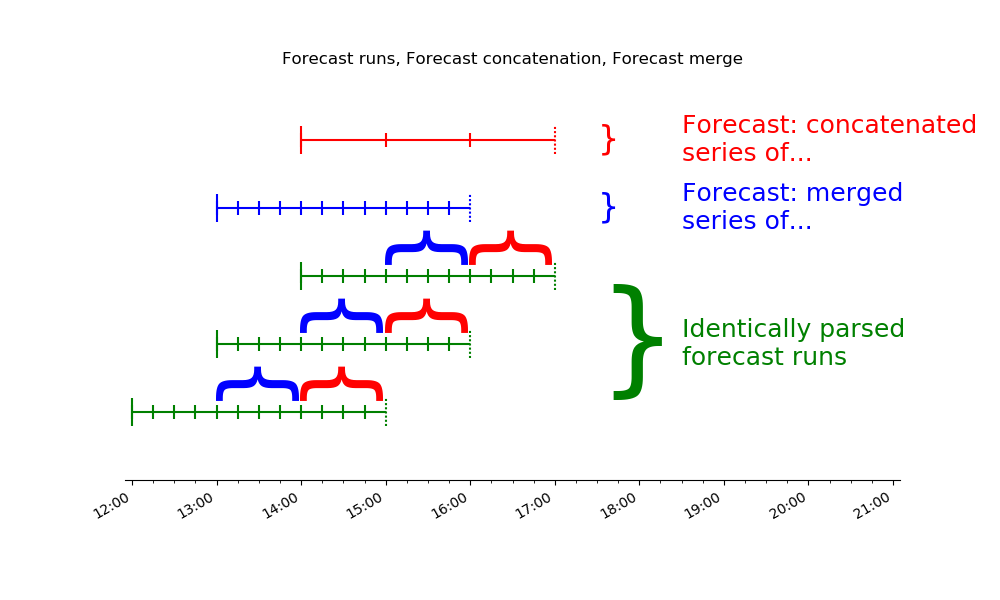
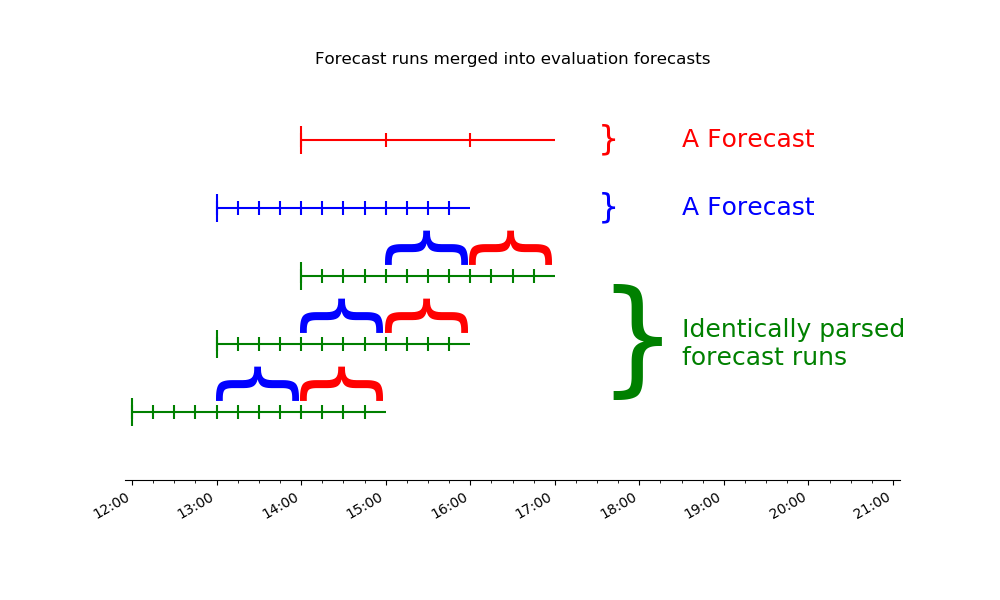
clean up

Changed region(s): [[0.682, 0.18, 0.992, 0.27], [0.682, 0.3, 0.899, 0.39], [0.279, 0.09, 0.744, 0.12]]

diff --git a/timeline.py b/timeline.py
@@ -60,6 +60,8 @@ class Forecast:
         Inclusion/exclusion determined by label.
     end: pandas.Timestamp
         Equal to start + duration. Inclusion/exclusion determined by label.
+    issue_time: pandas.Timestamp
+        Equal to start - lead_time_to_start
     label: str
     kind: str
     units: str
@@ -68,10 +70,10 @@ class Forecast:
                  intervals_per_submission, issue_frequency, value_type,
                  start, kind=None, label='left', units=''):
 
-        self.lead_time_to_start = lead_time_to_start
-        self.interval_duration = interval_duration
+        self.lead_time_to_start = pd.Timedelta(lead_time_to_start)
+        self.interval_duration = pd.Timedelta(interval_duration)
         self.intervals_per_submission = intervals_per_submission
-        self.issue_frequency = issue_frequency
+        self.issue_frequency = pd.Timedelta(issue_frequency)
         self.duration = \
             pd.Timedelta(interval_duration) * intervals_per_submission
         self.value_type = value_type
@@ -79,64 +81,39 @@ class Forecast:
         # For left-labeling, forecast is exclusive of end.
         # end is the first instant that is not part of the Forecast.
         self.end = self.start + self.duration
+        self.issue_time = self.start - self.lead_time_to_start
         self.kind = kind
         # determined by corresponding observations, provided here for
         # convenience
         self.units = units
 
-tz = 'UTC'
-start = pd.Timestamp('20180101 1200')
-end = pd.Timestamp('20180101 2100')
-freq = '5min'
-dates = pd.DatetimeIndex(start=start, end=end, freq=freq)
 
-# levels = np.array([-5, 5, -3, 3, -1, 1])
-fig, ax = plt.subplots(figsize=(10, 6))
+def draw_forecast_timeline(ax, y, forecast, start_tick_y_length=0.2,
+                           show_lead_time=False, show_last_tick=False,
+                           **kwargs):
+    if show_lead_time:
+        ax.hlines(y, xmin=forecast.issue_time, xmax=forecast.start,
+                linestyles=(0, (1, 1)), **kwargs)
+        ax.vlines(forecast.issue_time, y - start_tick_y_length,
+                y + start_tick_y_length, linestyles=(0, (1, 1)), **kwargs)
 
-start_end_delta = pd.Timedelta('5min')
-ax.set_xlim(start - start_end_delta, end + start_end_delta)
-ax.set_ylim(-1, 5)
-
-# Create the base line
-# start = datetime(2018, 1, 1, 12)
-# end = datetime(2018, 1, 1, 16)
-# ax.plot((start, end), (0, 0), 'k', alpha=.5)
-
-run1 = Forecast(0, '15min', 12, '1h', 'any', '20180101 1200')
-run2 = Forecast(0, '15min', 12, '1h', 'any', '20180101 1300')
-run3 = Forecast(0, '15min', 12, '1h', 'any', '20180101 1400')
-runs = [run1, run2, run3]
-
-hour_ahead_15min_int = Forecast('1h', '15min', 4, '1h', 'any', '20180101 1300')
-hour_ahead_15min_int.duration = pd.Timedelta('3h')
-hour_ahead_15min_int.end = (hour_ahead_15min_int.start +
-                            hour_ahead_15min_int.duration)
-
-hour_ahead_hour_int = Forecast('2h', '1h', 3, '1h', 'any', '20180101 1400')
-
-def draw_forecast_timeline(ax, y, forecast, **kwargs):
+    # main forecast line
     ax.hlines(y, xmin=forecast.start, xmax=forecast.end, **kwargs)
-    start_tick_y_length = .2
+    # forecast start tick
     ax.vlines(forecast.start, y - start_tick_y_length, y + start_tick_y_length,
               **kwargs)
+    # intervals ticks
     intervals = pd.DatetimeIndex(start=forecast.start, end=forecast.end,
                                  freq=forecast.interval_duration)
     ax.vlines(intervals[:-1], y - start_tick_y_length / 2,
               y + start_tick_y_length / 2, **kwargs)
-    # last tick should be longer and dashed
-    ax.vlines(intervals[-1], y - start_tick_y_length, y + start_tick_y_length,
-              linestyles=(0, (1, 1)), **kwargs)
+    if show_last_tick:
+        # last tick should be longer and dashed
+        ax.vlines(intervals[-1], y - start_tick_y_length,
+                  y + start_tick_y_length, linestyles=(0, (1, 1)), **kwargs)
     # arrow_start = forecast.end
     # ax.arrow(forecast.start, y - start_tick_y_length, y + start_tick_y_length,
     #           **kwargs)
-
-# Iterate through releases annotating each one
-for ii, run in enumerate(runs):
-    draw_forecast_timeline(ax, ii, run, color='g')
-
-draw_forecast_timeline(ax, len(runs), hour_ahead_15min_int, color='b')
-
-draw_forecast_timeline(ax, len(runs) + 1, hour_ahead_hour_int, color='r')
 
 
 def annotate_with_brace(ax, xy, color):
@@ -145,48 +122,82 @@ def annotate_with_brace(ax, xy, color):
                 rotation=90, color=color)
 
 
+def label_group(label, x, y, color, bracesize=24, fontsize=18):
+    ax.annotate('$\}$', xy=(x, y), fontsize=bracesize, textcoords='data',
+                horizontalalignment='left', verticalalignment='center',
+                color=color)
+    ax.annotate(label, xy=(pd.Timestamp(x) + pd.Timedelta('60min'), y),
+                fontsize=fontsize, textcoords='data',
+                horizontalalignment='left', verticalalignment='center',
+                color=color)
+
+
+def format_xaxis(fig, ax):
+    # Set the xticks formatting
+    # format xaxis with 3 month intervals
+    ax.get_xaxis().set_major_locator(mdates.HourLocator(interval=1))
+    ax.get_xaxis().set_minor_locator(
+        mdates.MinuteLocator(byminute=range(0, 60, 15)))
+    ax.get_xaxis().set_major_formatter(mdates.DateFormatter("%H:%M"))
+    fig.autofmt_xdate()
+
+
+def remove_left_right_top_axes(ax):
+    plt.setp((ax.get_yticklabels() + ax.get_yticklines() +
+            [v for k, v in ax.spines.items() if k != 'bottom']), visible=False)
+
+
+figsize = (10, 6)
+fig, ax = plt.subplots(figsize=figsize)
+
+# initial axes set up
+start = pd.Timestamp('20180101 1200')
+end = pd.Timestamp('20180101 2100')
+start_end_delta = pd.Timedelta('5min')
+ax.set_xlim(start - start_end_delta, end + start_end_delta)
+ax.set_ylim(-1, 5)
+
+# define forecast runs
+run1 = Forecast(0, '15min', 12, '1h', 'any', '20180101 1200')
+run2 = Forecast(0, '15min', 12, '1h', 'any', '20180101 1300')
+run3 = Forecast(0, '15min', 12, '1h', 'any', '20180101 1400')
+runs = [run1, run2, run3]
+
+# define merged forecasts
+hour_ahead_15min_int = Forecast('1h', '15min', 4, '1h', 'any', '20180101 1300')
+hour_ahead_15min_int.duration = pd.Timedelta('3h')
+hour_ahead_15min_int.end = (hour_ahead_15min_int.start +
+                            hour_ahead_15min_int.duration)
+
+hour_ahead_hour_int = Forecast('2h', '1h', 3, '1h', 'any', '20180101 1400')
+
+# draw each run
+for ii, run in enumerate(runs):
+    draw_forecast_timeline(ax, ii, run, color='g')
+
+# draw the merged forecasts
+draw_forecast_timeline(ax, len(runs), hour_ahead_15min_int, color='b')
+draw_forecast_timeline(ax, len(runs) + 1, hour_ahead_hour_int, color='r')
+
+# indicate segments of runs for blue forecast
 annotate_with_brace(ax, ('20180101 1300', 0), 'b')
 annotate_with_brace(ax, ('20180101 1400', 1), 'b')
 annotate_with_brace(ax, ('20180101 1500', 2), 'b')
 
+# indicate segments of runs for red forecast
 annotate_with_brace(ax, ('20180101 1400', 0), 'r')
 annotate_with_brace(ax, ('20180101 1500', 1), 'r')
 annotate_with_brace(ax, ('20180101 1600', 2), 'r')
 
-ax.annotate('$\}$', xy=('20180101 1730', 1), fontsize=90, textcoords='data',
-            horizontalalignment='left', verticalalignment='center',
-            color='g')
-ax.annotate('Identically parsed\nforecast runs', xy=('20180101 1830', 1),
-            fontsize=18, textcoords='data',
-            horizontalalignment='left', verticalalignment='center',
-            color='g')
+# add the labels
+label_group('Identically parsed\nforecast runs', '20180101 1730', 1, 'g',
+            bracesize=90)
+label_group('A Forecast', '20180101 1730', 3, 'b')
+label_group('A Forecast', '20180101 1730', 4, 'r')
 
-ax.annotate('$\}$', xy=('20180101 1730', 3), fontsize=24, textcoords='data',
-            horizontalalignment='left', verticalalignment='center',
-            color='b')
-ax.annotate('Forecast: merged\nseries of...', xy=('20180101 1830', 3),
-            fontsize=18, textcoords='data',
-            horizontalalignment='left', verticalalignment='center',
-            color='b')
+# format x axis, title, remove other axes
+format_xaxis(fig, ax)
+ax.set(title="Forecast runs merged into evaluation forecasts")
+remove_left_right_top_axes(ax)
 
-ax.annotate('$\}$', xy=('20180101 1730', 4), fontsize=24, textcoords='data',
-            horizontalalignment='left', verticalalignment='center',
-            color='r')
-ax.annotate('Forecast: concatenated\nseries of...', xy=('20180101 1830', 4),
-            fontsize=18, textcoords='data',
-            horizontalalignment='left', verticalalignment='center',
-            color='r')
-
-ax.set(title="Forecast runs, Forecast concatenation, and Forecast merge")
-# Set the xticks formatting
-# format xaxis with 3 month intervals
-ax.get_xaxis().set_major_locator(mdates.HourLocator(interval=1))
-ax.get_xaxis().set_minor_locator(
-    mdates.MinuteLocator(byminute=range(0, 60, 15)))
-ax.get_xaxis().set_major_formatter(mdates.DateFormatter("%H:%M"))
-fig.autofmt_xdate()
-
-# Remove components for a cleaner look
-plt.setp((ax.get_yticklabels() + ax.get_yticklines() +
-          [v for k, v in ax.spines.items() if k != 'bottom']), visible=False)
 plt.savefig('timeline.png')

diff --git a/README.md b/README.md
@@ -3,7 +3,7 @@ fxtimeline
 
 `python timeline.py` will create...
 
-![timeline][timeline.png]
+![timeline](timeline.png)
 
 
 Requirements
